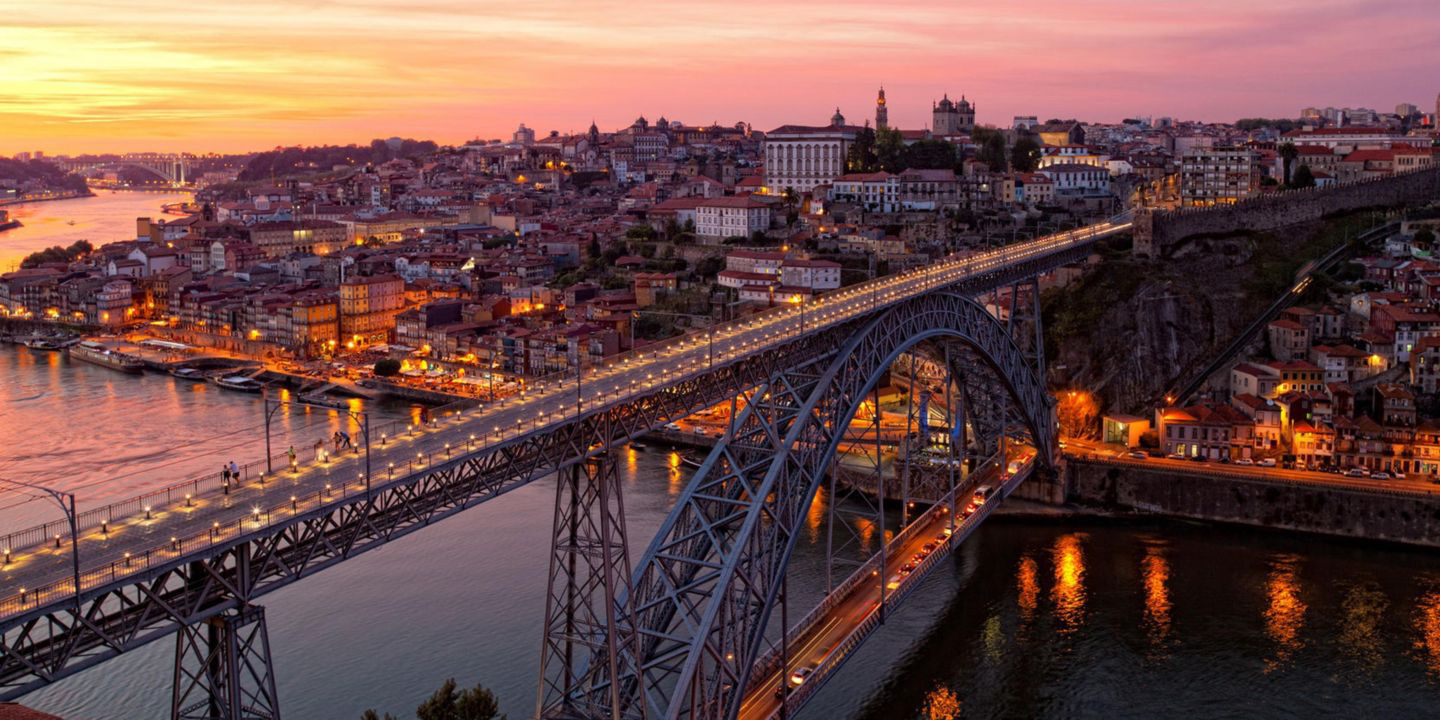
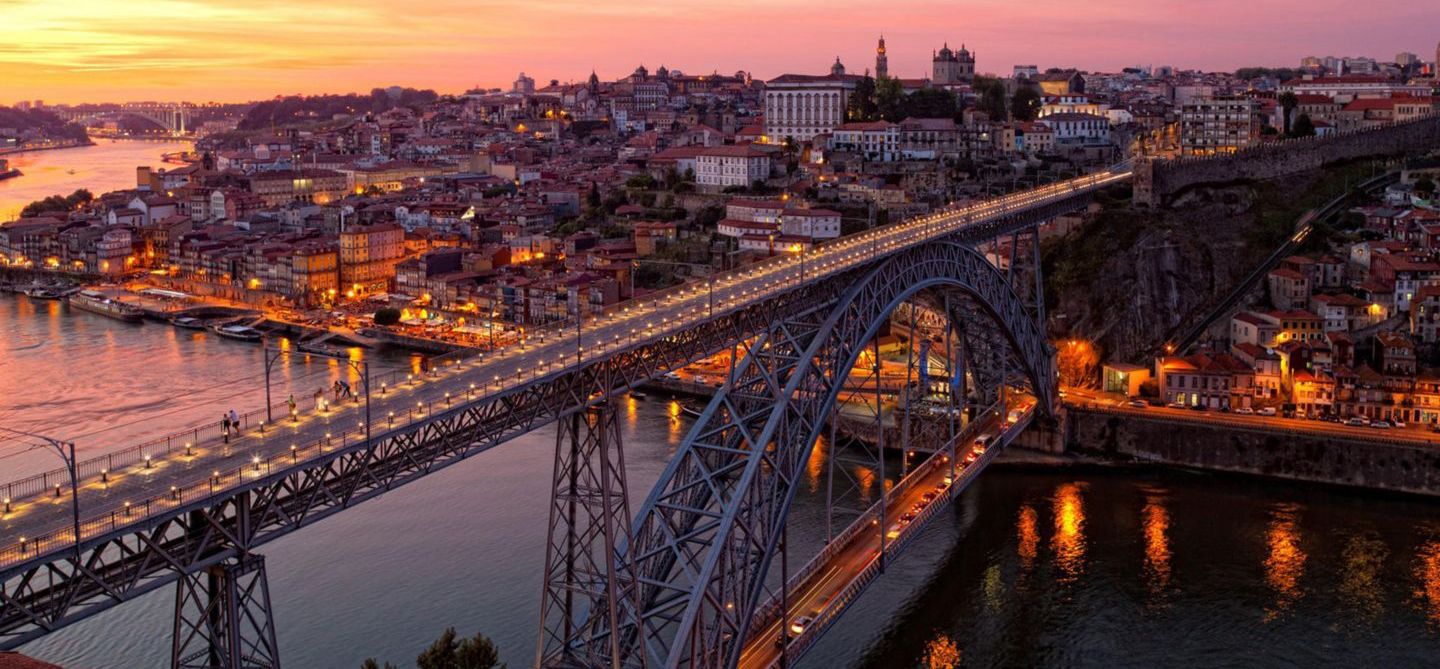
changed image porto

diff --git a/index.html b/index.html
@@ -94,7 +94,7 @@
 	  <div class="item"><div class="textoverlay">
 	  	<h2>Consultoria em Engenharia.</h2>
 	  	<a href="consultoria.html" class="primary-btn position">os nossos serviços</a><a href="contactos.html" class="secondary-btn position">contacte-nos</a>
-	  </div><div class="background-top"></div><img src="images/porto.jpeg" alt="porto"></div>
+	  </div><div class="background-top"></div><img src="images/Carrocel/Porto-Portugal.jpg" alt="porto"></div>
 	  <div class="item"><div class="textoverlay"><h2>Fiscalização de Obras.</h2><a href="consultoria.html" class="primary-btn position">saiba mais</a></div><div class="background-top"></div><img src="images/Carrocel/car2.JPG" alt=""></div>
 	  <div class="item"><div class="textoverlay"><h2>Coordenação de Segurança.</h2><a href="consultoria.html" class="primary-btn position">saiba mais</a></div><div class="background-top"></div><img src="images/Carrocel/Car3.jpg" alt=""></div>
 	  <div class="item"><div class="textoverlay"><h2>Projectos de Especialidades.</h2><a href="consultoria.html" class="primary-btn position">saiba mais</a></div><div class="background-top"></div><img src="images/Carrocel/Car4.JPG" alt=""></div>
